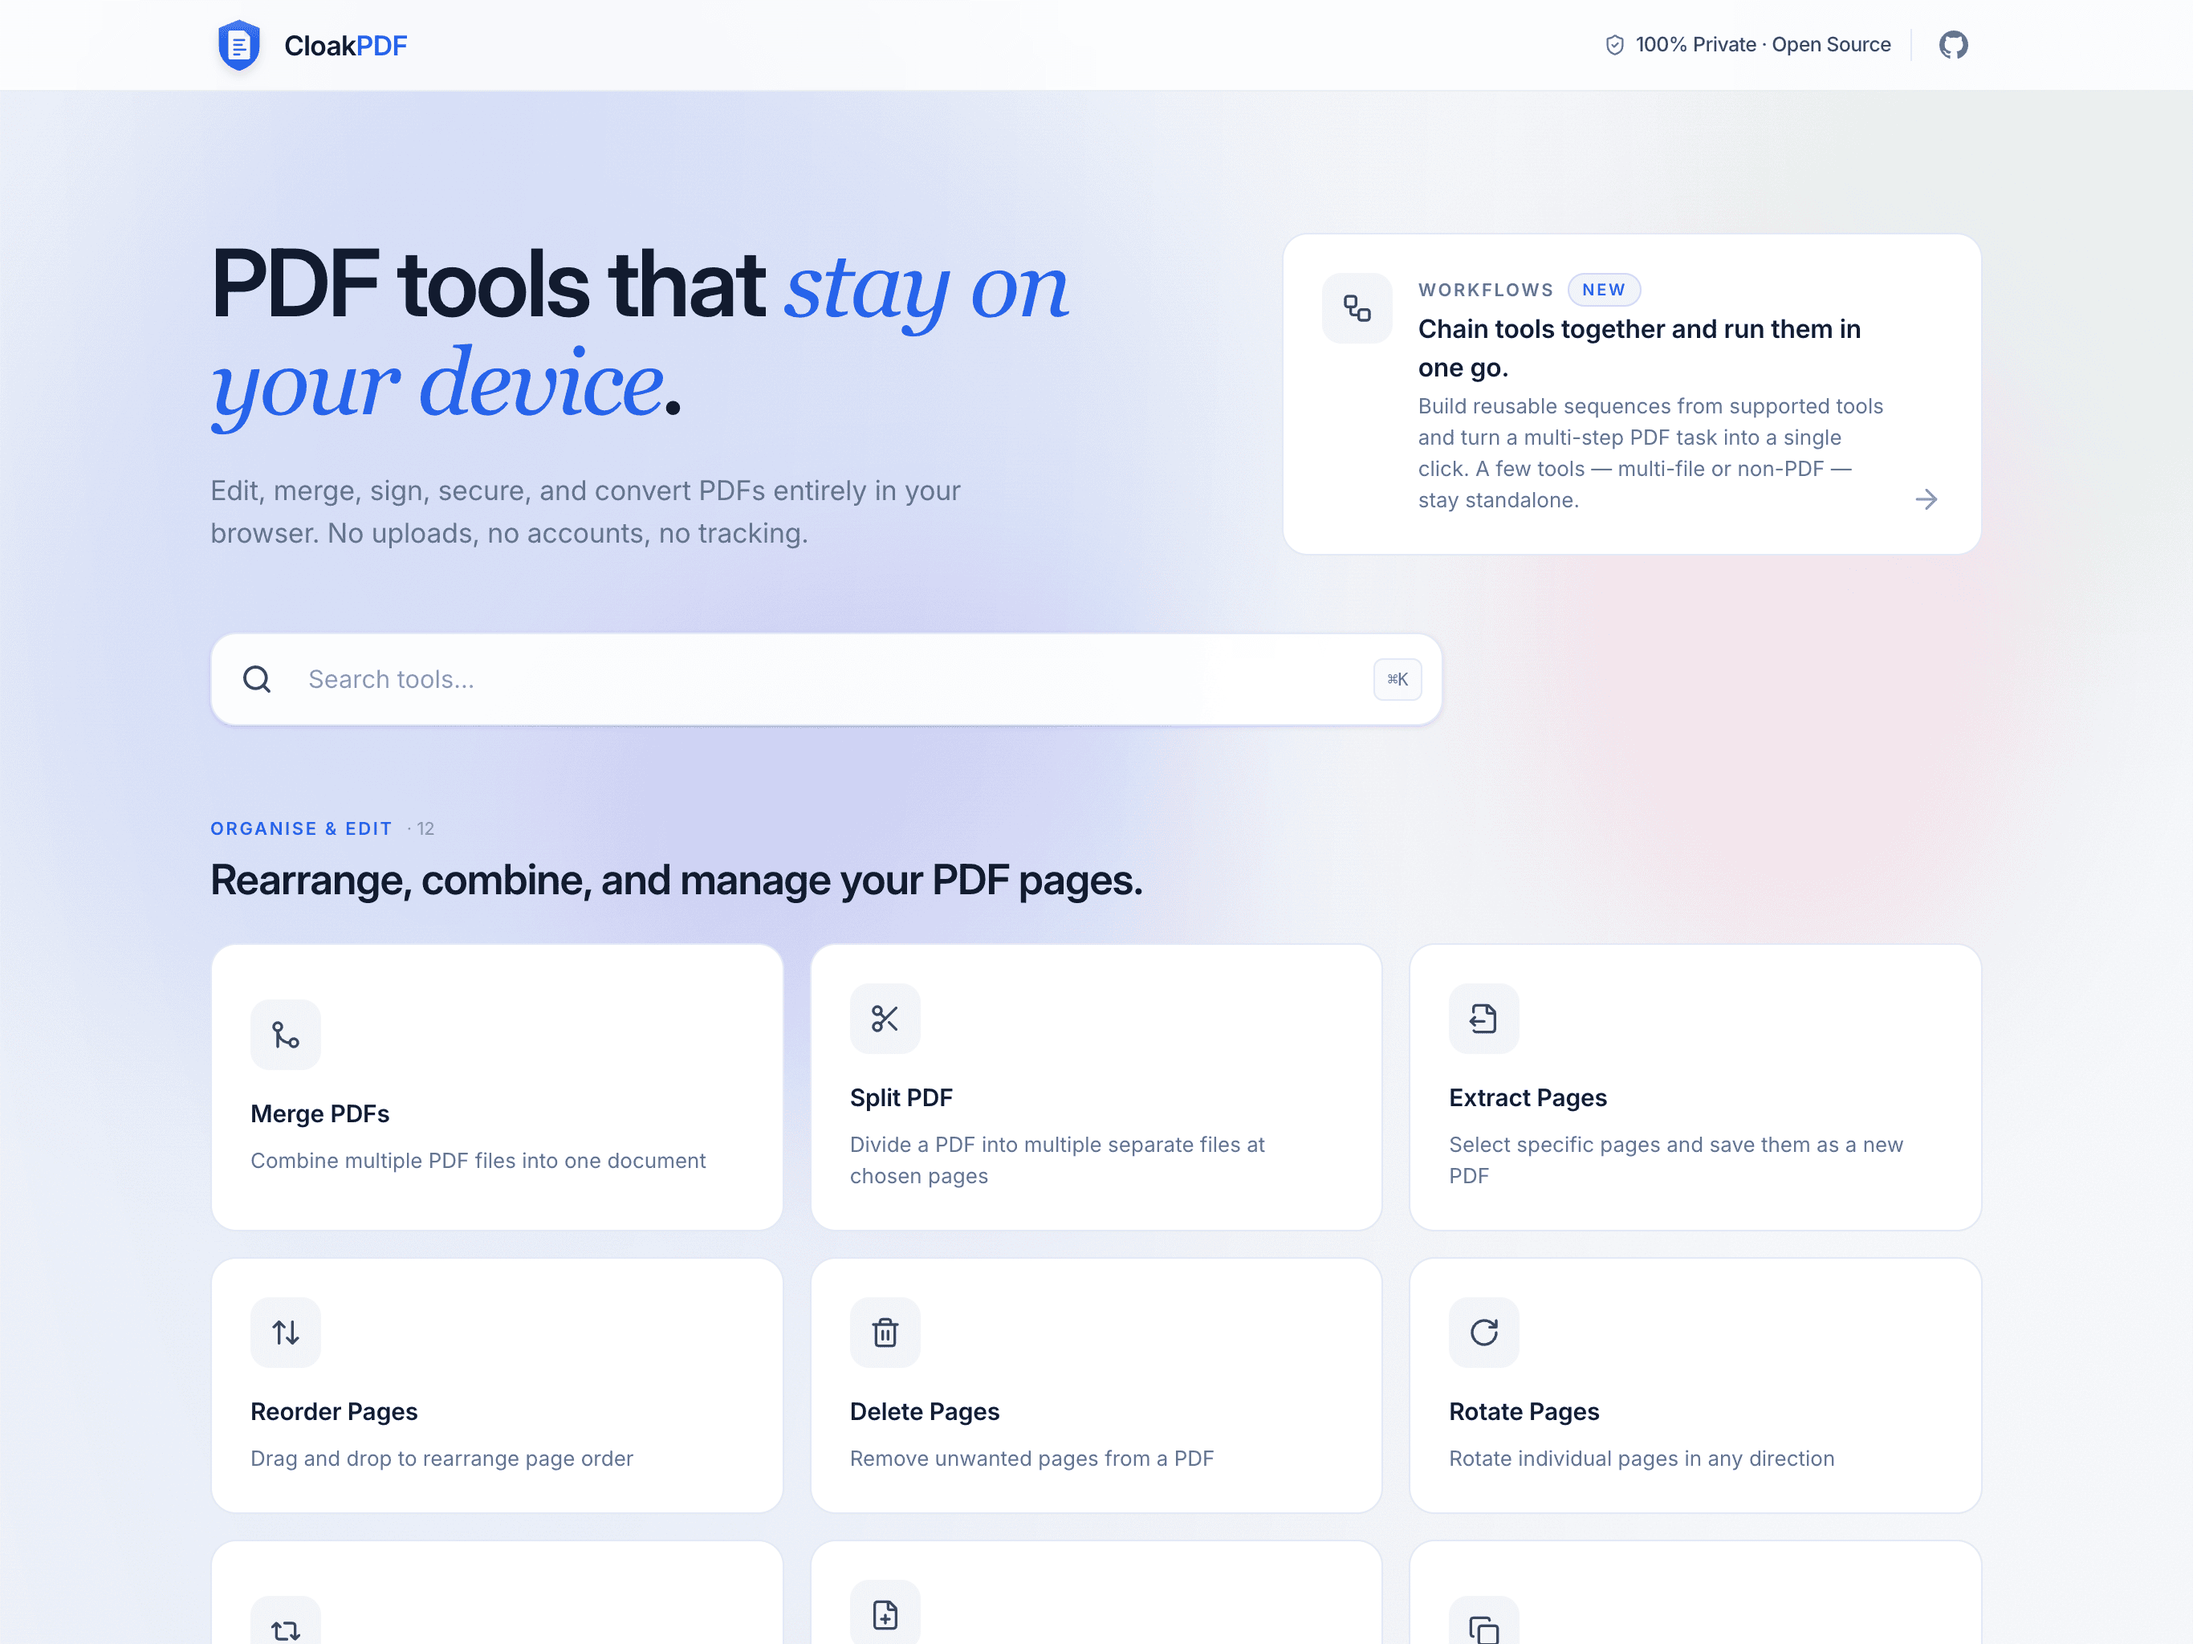
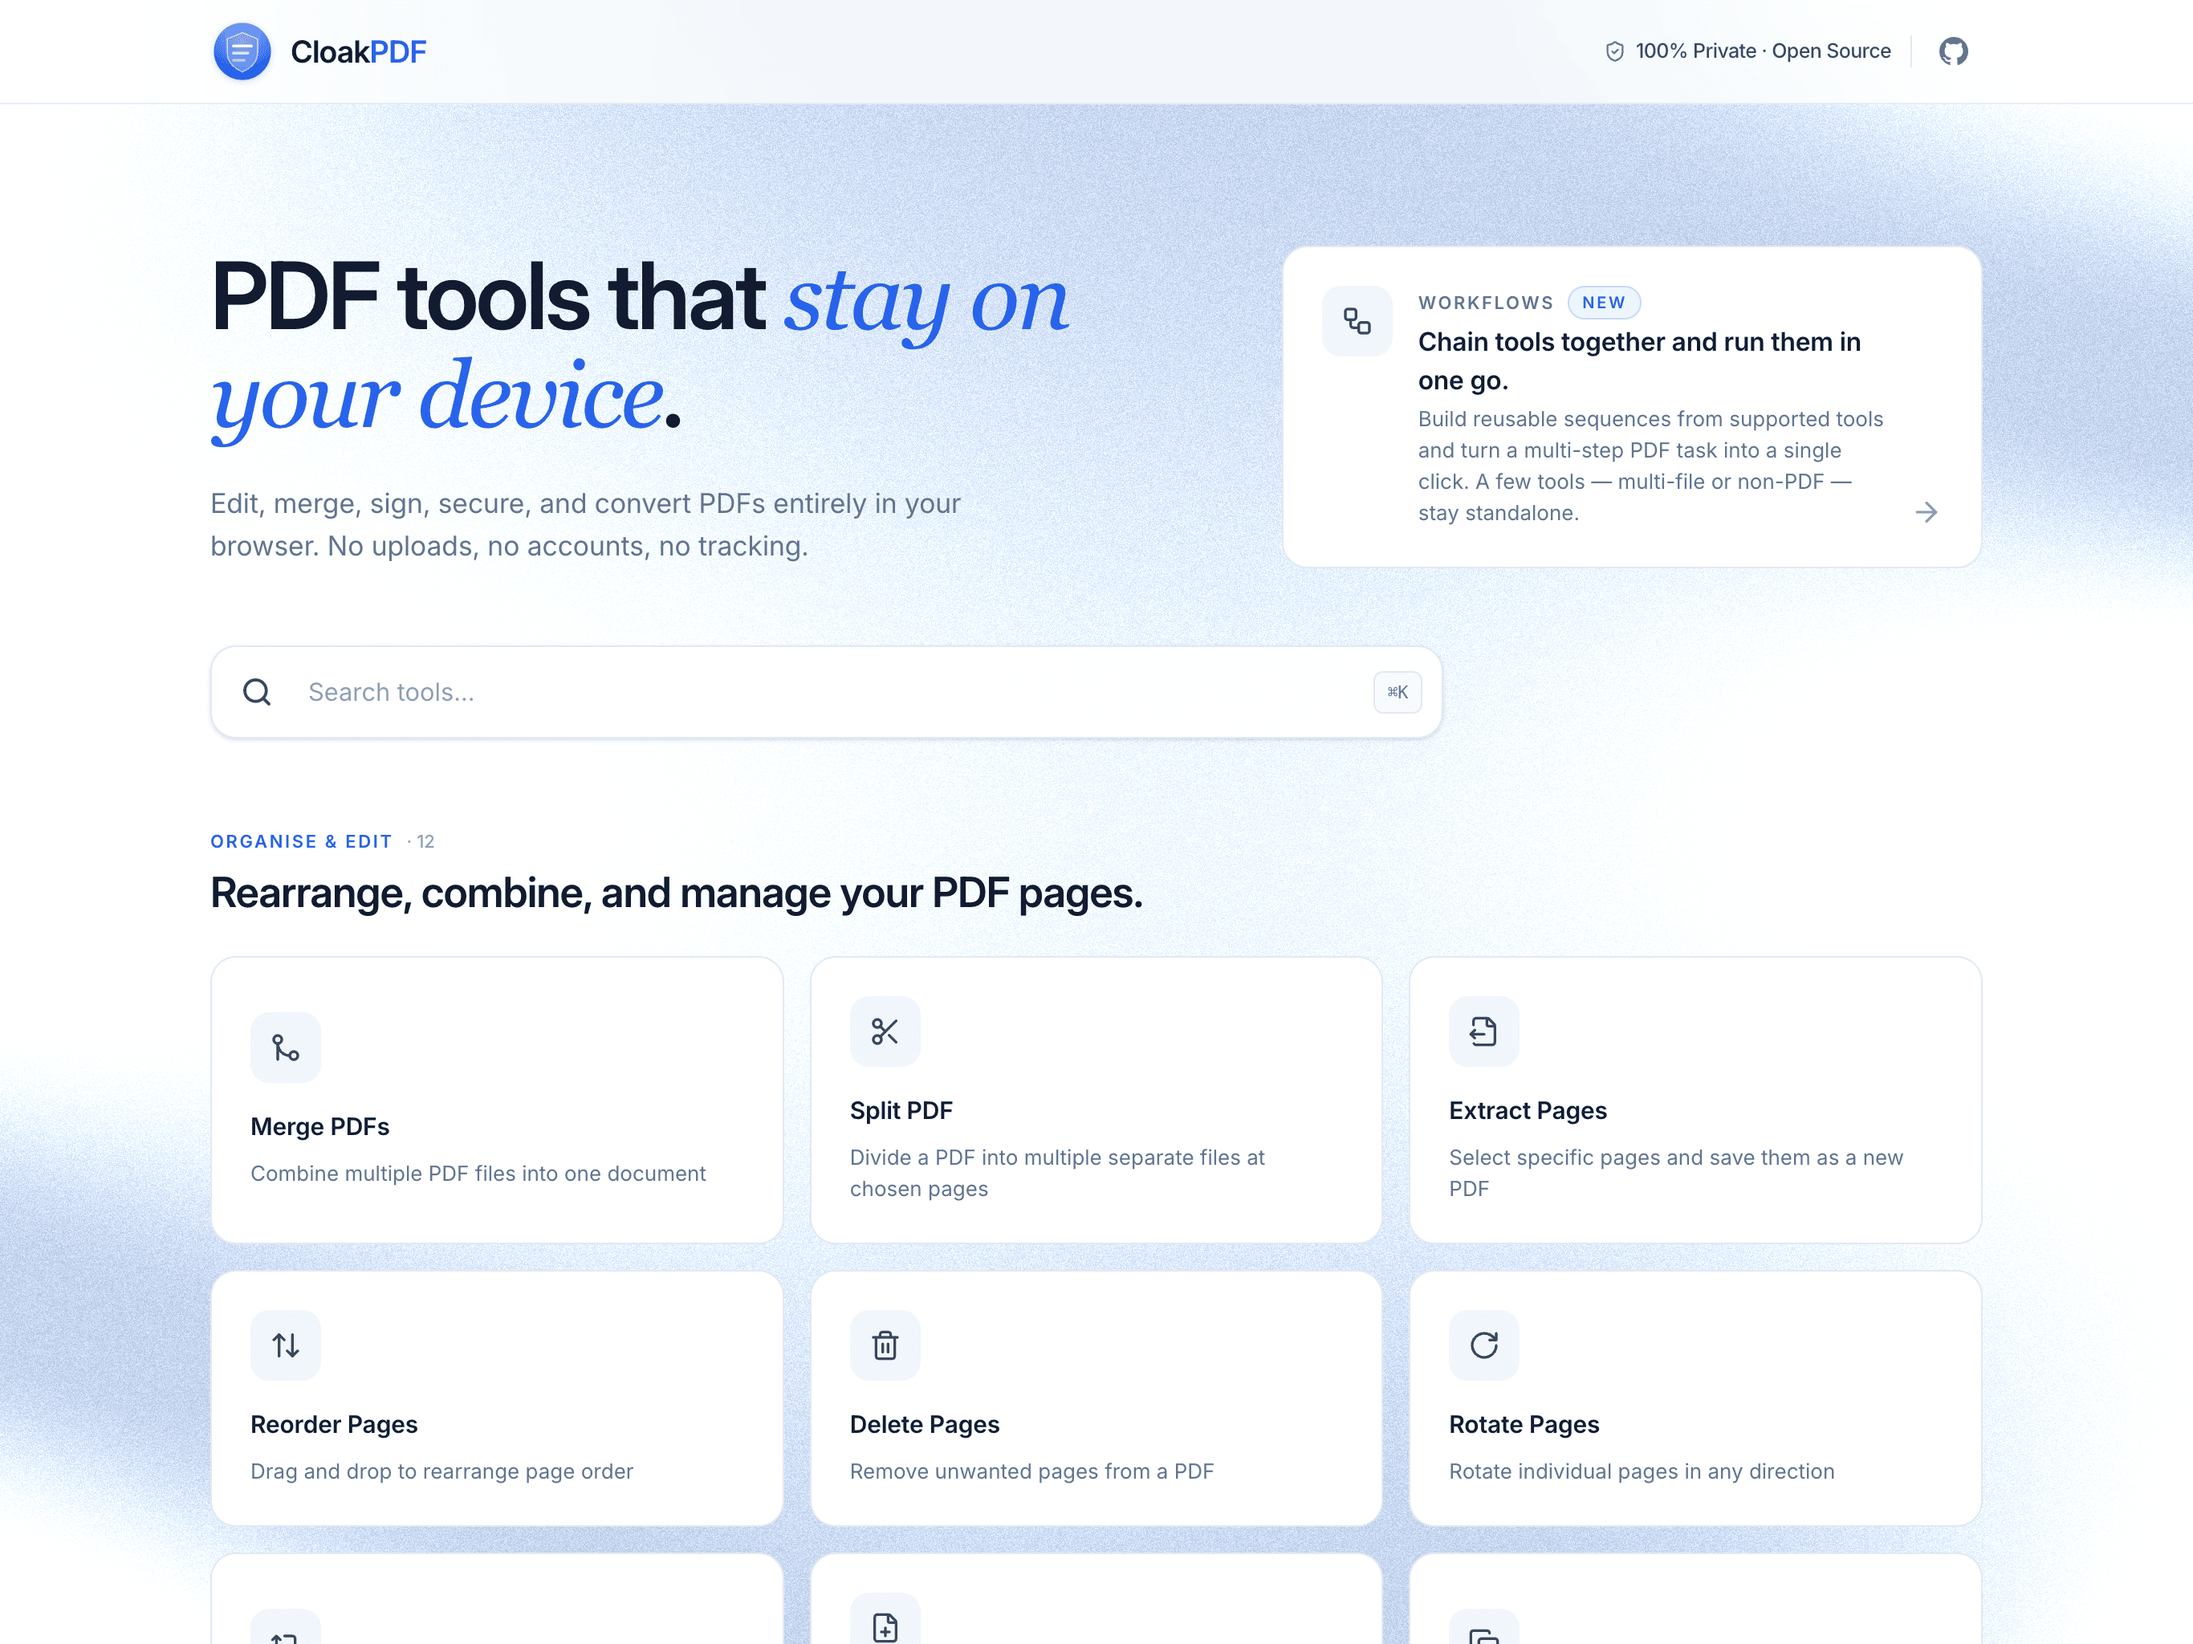
fix: adjust header padding for improved layout consistency

diff --git a/src/components/Layout.tsx b/src/components/Layout.tsx
@@ -83,7 +83,7 @@ export function Layout({ children, onHome, showBack, onPrivacy }: LayoutProps) {
             content to the page max-width. */}
         <header className="sticky top-0 z-50 bg-white/80 dark:bg-dark-surface/80 backdrop-blur-xl border-b border-slate-200/70 dark:border-white/10">
           <div className="max-w-6xl mx-auto px-4 sm:px-6">
-            <div className="py-2.5 flex items-center gap-2 sm:gap-3">
+            <div className="py-3 flex items-center gap-2 sm:gap-3">
               {showBack && (
                 <button
                   type="button"
